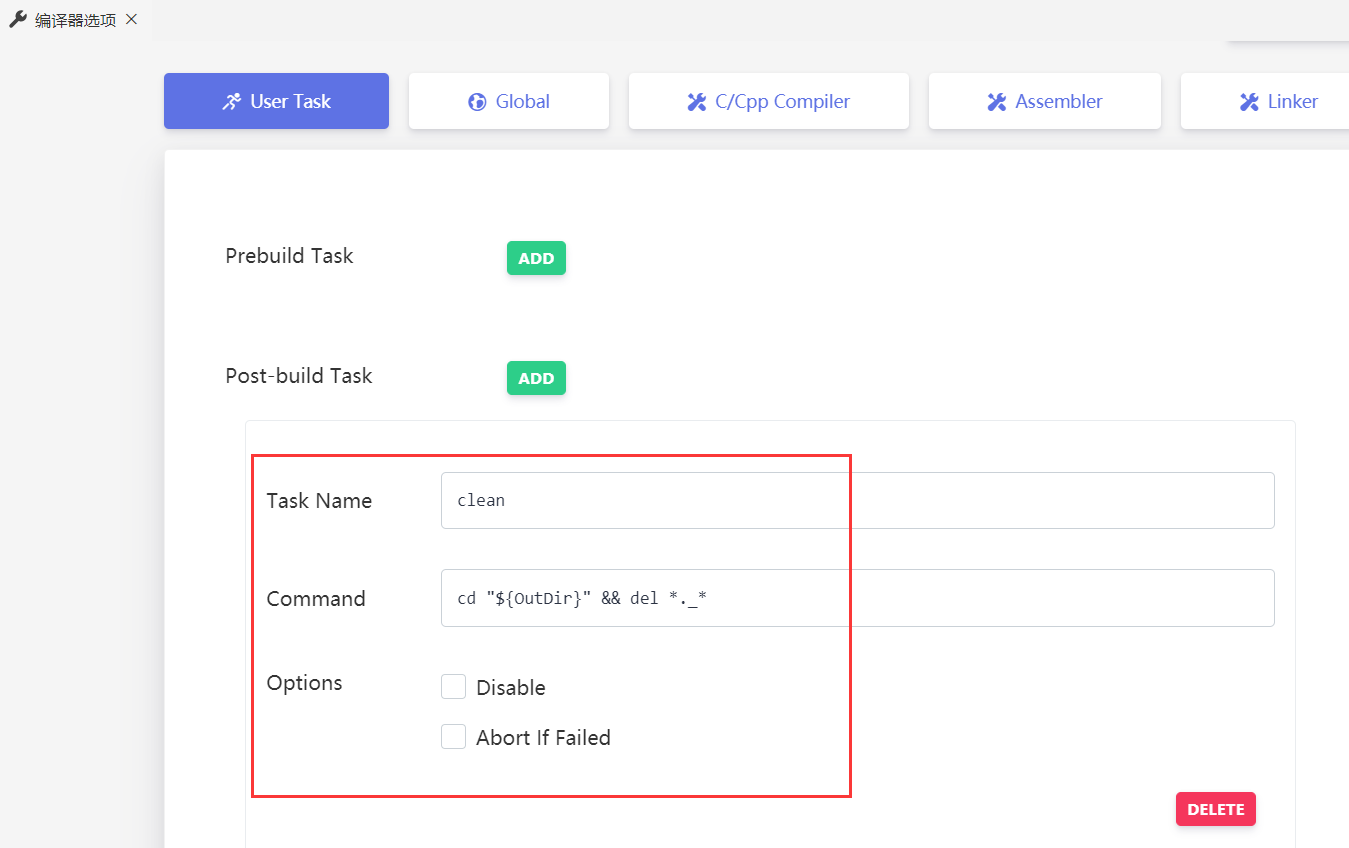
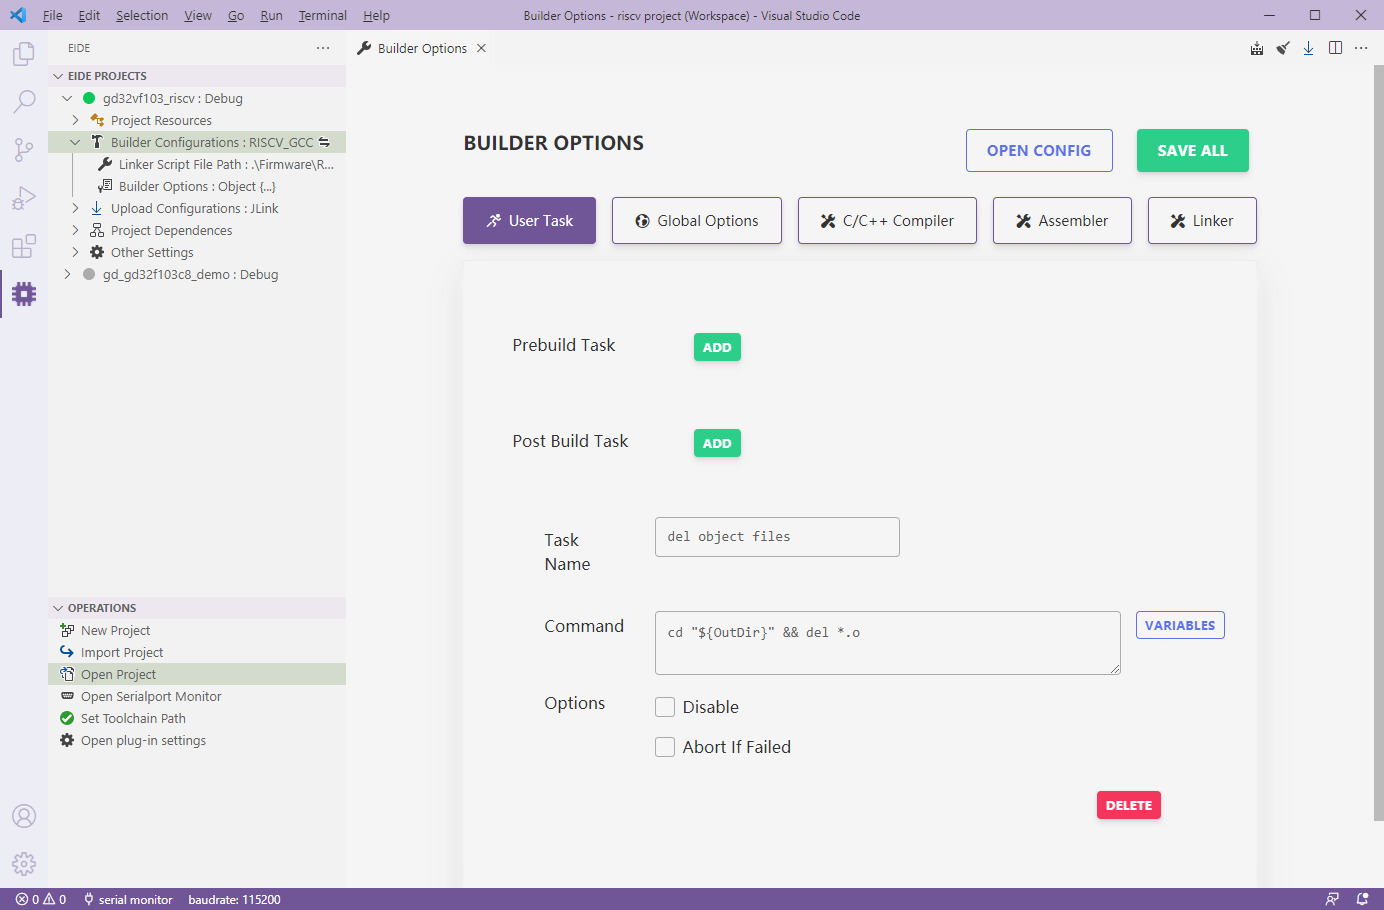
update en docs

diff --git a/en-us/docs/builder_config.md b/en-us/docs/builder_config.md
@@ -1,144 +1,146 @@
-# 构建配置介绍
+# Builder Configurations
 
 ## Builder Options
 
-> 自 v2.4.0 版本起，eide 使用 Web 页面进行编译器参数的配置
+> Since v2.4.0, eide uses web pages to configure compiler parameters
 
-点击 **构建配置** -> **编译器选项** 的修改按钮即可打开参数配置页面
+Click the **Builder Configuration** -> **Builder Options** modify button to open the parameter configuration page
 
 ![](./../img/prj_builder_options.png)
 
 ***
 
-### 8051/STM8 工程
+### 8051/STM8 Project
 
-- **编译器选项**：关于编译器的相关参数和选项
+- **Builder Options**: Parameters and options about the compiler
 
 ***
 
-### AC5/AC6 (ARMCC) 工程
+### AC5/AC6 (ARMCC) Project
 
 ![](../img/build_conf.png)
 
-- **CPU 类型**：Cortex 系列名
+- **CPU Type**: Cortex series name
   
-- **硬件浮点选项**：CPU 的硬件浮点开关
+- **Hardware floating point option**: CPU hardware floating point switch
   
-- **使用链接脚本**：是否要使用自定义的链接脚本
+- **Use Custom Linker Script File**: Whether to use a custom linker script
   
-  - `打开`此项，会出现一个**链接脚本路径**选项，你需要指定一个链接脚本路径
+  - If `True`, A **linker script path** option will be showed and you need to specify a link script path.
   
     ![](../img/build_use_custom_lds.png)
 
-  - `关闭`此项，会出现一个**RAM/FLASH布局**选项，你需要打开它为芯片设置储存器的地址大小信息
+  - If `False`, A **RAM/FLASH layout** option will be showed, which you need to turn on to set the memory address size information for the chip.
   
     ![](../img/build_nouse_custom_lds.png)
 
     ![](../img/armcc_ram_rom_layout.png)
 
-- **编译器选项**：关于编译器的相关参数和选项
+- **Builder Options**: Parameters and options about the compiler
 
 ***
 
-#### ARM-GCC 工程
+#### ARM-GCC Project
 
 ![](../img/build_conf_gcc.png)
 
-- **CPU 类型**：Cortex 系列名
+- **CPU Type**: Cortex series name
+  
+- **Hardware floating point option**: CPU hardware floating point switch
+  
+- **Linker script file path**: gcc linker script file path
 
-- **链接脚本路径**：GCC 的链接脚本路径
-
-- **编译器选项**：关于编译器的相关参数和选项
+- **Builder Options**: Parameters and options about the compiler
 
 ***
 
-### RISC-V 工程
+### RISC-V Project
 
 ![](../img/build_conf_riscv.png)
 
-- **链接脚本路径**：RISCV GCC 的链接脚本路径
+- **Linker script file path**: risc-v gcc linker script file path
 
-- **编译器选项**：关于编译器的相关参数和选项
+- **Builder Options**: parameters and options about the compiler
 
-RISC-V 的 CPU 选项位于 **编译器选项**->**Global**，需要根据情况设置, 如下
+RISC-V CPU options are located in the **Builder Options**->**Global** and must be set for every project, as follows
 
 ![](../img/riscv_builder_options.png)
 
-- `arch` **字段**: 
+- `arch` **Field**: 
   
-  含义：对应 `-march=` 选项，用于指定 **目标处理器的指令集**
+  description: Corresponds to the `-march=` option, which specifies **the instruction set of target processor**.
 
-  默认值：`rv32imac`
+  default: `rv32imac`
 
-- `abi` **字段**:
+- `abi` **Field**:
   
-  含义：对应 `-mabi=` 选项，用于指定 **整数和浮点调用约定 (integer and floating-point calling convention)**
+  description: Corresponds to the `-mabi=` option, used to specify **integer and floating-point calling convention**.
 
-  默认值：`ilp32`
+  default: `ilp32`
 
-- `code-model` **字段**:
+- `code-model` **Field**:
   
-  含义：对应 `-mcmodel=` 选项，用于指定 **代码模型 (code model)**
+  description: Corresponds to the `-mcmodel=` option, used to specify **code model**.
 
-  默认值：`medlow`
+  default: `medlow`
 
 ***
 
-## 用户命令
+## User Commands
 
-> eide 支持在 **编译前** 和 **编译完成后** 附加一些自定义的用户命令，方便进行其他操作
+> eide support add some custom user commands before compiling and after compiling to run other operations.
 
-打开 **编译器选项**->**User Task** 其中：
+Open **Builder Options**->**User Task**:
 
-  - `Prebuild Task` 代表**构建开始前**要执行的操作
+  - `Prebuild Task`: Run tasks before build start.
 
-  - `Post-build Task` 代表**构建结束后**要执行的操作
+  - `Post-build Task`: Run tasks after build done.
 
 ![](./../img/builder_user_task.png)
 
-### 命令变量
+### Command Variables
 
-命令中可用的 **变量**, 变量名**不区分**大小写：
+There are some available **Variables** can be used in command, variable name **is case insensitive**:
 
-|变量名|含义|
+|variable|description|
 |:----|:----|
-|`${targetName}`|项目名称| 
-|`${ProjectRoot}`|项目根目录|
-|`${OutDir}`|编译输出目录|
-|`${BuilderFolder}`|eide 内置构建工具所在目录|
-|`${ToolchainRoot}`|编译器根目录|
-|`${CompilerPrefix}`|GCC 编译器前缀, 例如: arm-none-eabi-|
-|`${CompilerFolder}`|编译器可执行文件所在目录|
+|`${targetName}`|Project Name| 
+|`${ProjectRoot}`|Project Root Folder|
+|`${OutDir}`|Build output folder|
+|`${BuilderFolder}`|eide builder executable file folder|
+|`${ToolchainRoot}`|Compiler Root Folder|
+|`${CompilerPrefix}`|GCC Compiler Prefix, like: arm-none-eabi-|
+|`${CompilerFolder}`|Compiler executable file folder|
 
 
-示例，加入以下命令到 Post-build Task：`cd "${OutDir}" && del *._*`，含义：在编译结束后删除输出目录下所有匹配 `*._*` 的文件
+exmaple: add this command to Post-build Task: `cd "${OutDir}" && del *.o`, Delete all files in the output directory that match `*.o` after compiling
 
 ![](./../img/add_builder_task.png)
 
 ***
 
-### 常用命令
+### Utility Commands
 
-> **这里有一些常用的命令可供参考**
+> **There are some utility commands, sometimes it can be useful.**
 
 ```ini
 
-# 查看内部的环境变量
+# show internal environment variables
 powershell -Command ls env:
 
-# 打印 GCC 版本
+# print GCC version
 "${CompilerFolder}/${toolPrefix}gcc" -v
 
-# ARMCC 生成 S19 格式的烧录文件
+# generate S19 format file for Armcc
 "${CompilerFolder}\fromelf" --m32combined -o "${OutDir}\${targetName}.s19" "${OutDir}\${targetName}.axf"
 
-# 从 hex 文件生成 bin 文件
+# generate bin file from hex file
 "${BuilderFolder}\hex2bin.exe" -b -c "${outDir}\${targetName}.hex"
 
-# 复制生成的 .hex .bin 文件到 dist 目录
+# copy the generated .hex .bin file to the dist directory
 mkdir .\dist & copy /B "${OutDir}\${targetName}.hex" .\dist\ & copy /B "${OutDir}\${targetName}.bin" .\dist\
 
-# 复制生成的 .a 文件到 dist 目录
+# copy the generated .a file to the dist directory
 mkdir .\dist & copy /B "${OutDir}\${targetName}.a" .\dist\lib${targetName}.a
 
 ```

diff --git a/en-us/docs/project_deps.md b/en-us/docs/project_deps.md
@@ -1,57 +1,57 @@
-# 项目依赖 
+# Project Dependences 
 
-## 包含目录
+## Include Directorys
 
-**添加/删除包含目录**
+**Add/Delete Include Directorys**
 
-> 可以通过 包含目录 功能来 添加/删除 头文件的搜索路径
+> You can add/remove search paths for header files by including directory functionality
 
-!> 注意：重复添加同一个路径将不会有任何效果出现，也不会弹出任何提示
+!> Note: add the same path repeatedly will not have any effect, nor will any prompt appear.
 
-![](https://img-blog.csdnimg.cn/20200612015716140.png)
+![](../img/prj_deps_inc_add.png)
 
-**查看包含目录**
+**Show all include directorys**
 
-> 你可以通过这个功能查看当前项目所有的包含路径
+> You can use this feature to view all the include paths of the current project
 
-![](https://img-blog.csdnimg.cn/20200612020433395.png)
+![](../img/prj_deps_show_inc.png)
 
-下图展示了这个功能的效果
+The image below shows the effect of this feature
 
-![](https://img-blog.csdnimg.cn/20200612020607959.png?x-oss-process=image/watermark,type_ZmFuZ3poZW5naGVpdGk,shadow_10,text_aHR0cHM6Ly9ibG9nLmNzZG4ubmV0L3FxXzQwODMzODEw,size_16,color_FFFFFF,t_70)
+![](../img/prj_deps_show_inc_preview.png)
 
-> 每个包含路径后都有一个标签，将以较暗的颜色显示，这个标签说明了这个路径源自何处
+> Each include path is followed by a label, which will appear in a darker color, that indicates where the path originated
 
-- `custom`：表示这个包含路径是用户手动添加的
-- `build-in`：表示这是工具链内置的包含路径
-- `source`：表示这个路径是从源文件目录中自动搜索到的
-- `STMxxxx`：表示这个路径来自 keil 包 里安装的组件，**此标签的名字就是 keil 包的名字**
+- `custom`: This include path is manually added by the user
+- `build-in`: This is the include path built into the toolchain
+- `source`: This path is automatically searched from the source file directory
+- `STMxxxx`: This path comes from the component installed in the Keil package. **The name of this label is the name of the Keil package**
 
 ***
 
-## 库目录
+## Library Directorys
 
-可以通过添加 库目录 来指定 **静态链接库**和**链接脚本** 的搜索路径（在 gcc 系列工具链中，这种参数通常用 `-L` 参数进行指定）
+Specify the search path for static libraries and linked scripts by adding the library directory (usually specified with the '-L' argument in the GCC family of toolchains)
 
-!> 注意：该功能仅支持 **GCC**, **SDCC** 系列编译器，使用其他系列编译器的，请将 **静态库二进制文件（xx.a, xxx.o ...）** 直接添加到项目中
+!> Note: this function only supports **GCC**, **SDCC** series compilers, if you are using other series compilers, please add **static library binaries (xx.a, XXX.o...)** directly to the project.
 
 ![](../img/dep_add_lib_inc.png)
 
 ***
 
-## 宏定义
+## Macros
 
-可以通过添加 宏定义 来为源文件指定 宏开关
+You can specify macros for source files by adding macro definitions
 
-> 提示：你可以一次添加多个宏，不同的宏之间必须以 “;” 作为间隔，例如: 输入 `ST;DEBUG;_RTE_` 将会把 `ST`，`DEBUG`，`_RTE_` 这三个宏一次性添加到项目中
+> Tip: You can add more than one macro at one time. For example: enter `ST;DEBUG;_RTE_` will add the macros `ST`, `DEBUG`, and `_RTE_` to the project at once
 
-![](https://img-blog.csdnimg.cn/20200612021943618.png)
+![](../img/prj_deps_add_def.png)
 
-!> 注意：该功能只适用于 C/C++ 源文件，**要为 ASM 汇编源文件添加宏开关，请到 '构建器选项' -> '汇编器' 中添加，汇编器宏开关格式见下方**
+!> Note: This feature only works with C/C++ source files. **If you want add a macros for asm source files, go to 'Builder options' ->'Assembler' to add the macros. Format of the assembler shown below.**
 
-**汇编器**宏开关格式：
+**Assembler** Macros format:
 
-| 汇编器类型 | 格式（`<key>`为宏名称，`<value>` 为宏的值） |
+| Assembler Type | Format (`<key>` is macro name，`<value>` is macro value) |
 |:--|:--|
 | ARMCC 5/6 | `"<key> SETA <value>"` |
 | ARMCC 6（asm-clang） | `<key>=<value>` |

diff --git a/en-us/docs/open_project.md b/en-us/docs/open_project.md
@@ -1,13 +1,15 @@
-# 打开项目
+# Open Project
 
-> 提供两种打开项目的方式，分别为 `双击工作区文件` 和 `点击操作栏按钮`
+> There are two ways to open the project: `double click workspace file` or `click operations bar button`
 
-## 双击 VsCode 工作区文件 打开
+## Double-click on the VsCode workspace file to open
 
-> 双击 .code-workspace 文件，vscode 会打开该工作区，eide 就能加载工作区内的项目
+> Double-click the .code-workspace file and vscode will open the workspace and eide will be able to load projects in the workspace.
 
-!> 注意：直接用 VsCode 打开项目根目录是无法打开项目的，因为 eide 只会在工作区内搜索和加载项目
+![open project](../img/open_prj_by_ws_file.png)
 
-## 在操作栏点击 “打开项目”
+!> Note: opening the project root directory directly with VsCode will not open the project, because eide will only search and load the project in the workspace.
+
+## Click "Open Project" in the operations bar
 
 ![open project](../img/open_prj.png)

diff --git a/en-us/_sidebar.md b/en-us/_sidebar.md
@@ -9,11 +9,9 @@
   - [Prepare Works](en-us/docs/prepare_work.md)
   - [Import Project](en-us/docs/import_project.md)
   - [New Project](en-us/docs/create_project.md)
-  
-  - [Open Project](en-us/docs/comming_soon.md)
-  - [Builder Config](en-us/docs/comming_soon.md)
-  - [**Project Dependences**](en-us/docs/comming_soon.md)
-  - [Build Project](en-us/docs/comming_soon.md)
+  - [Open Project](en-us/docs/open_project.md)
+  - [Builder Config](en-us/docs/builder_config.md)
+  - [**Project Dependences**](en-us/docs/project_deps.md)
   - [Flash Project](en-us/docs/comming_soon.md)
   - [Debug Project](en-us/docs/comming_soon.md)
 - **Project Management**
